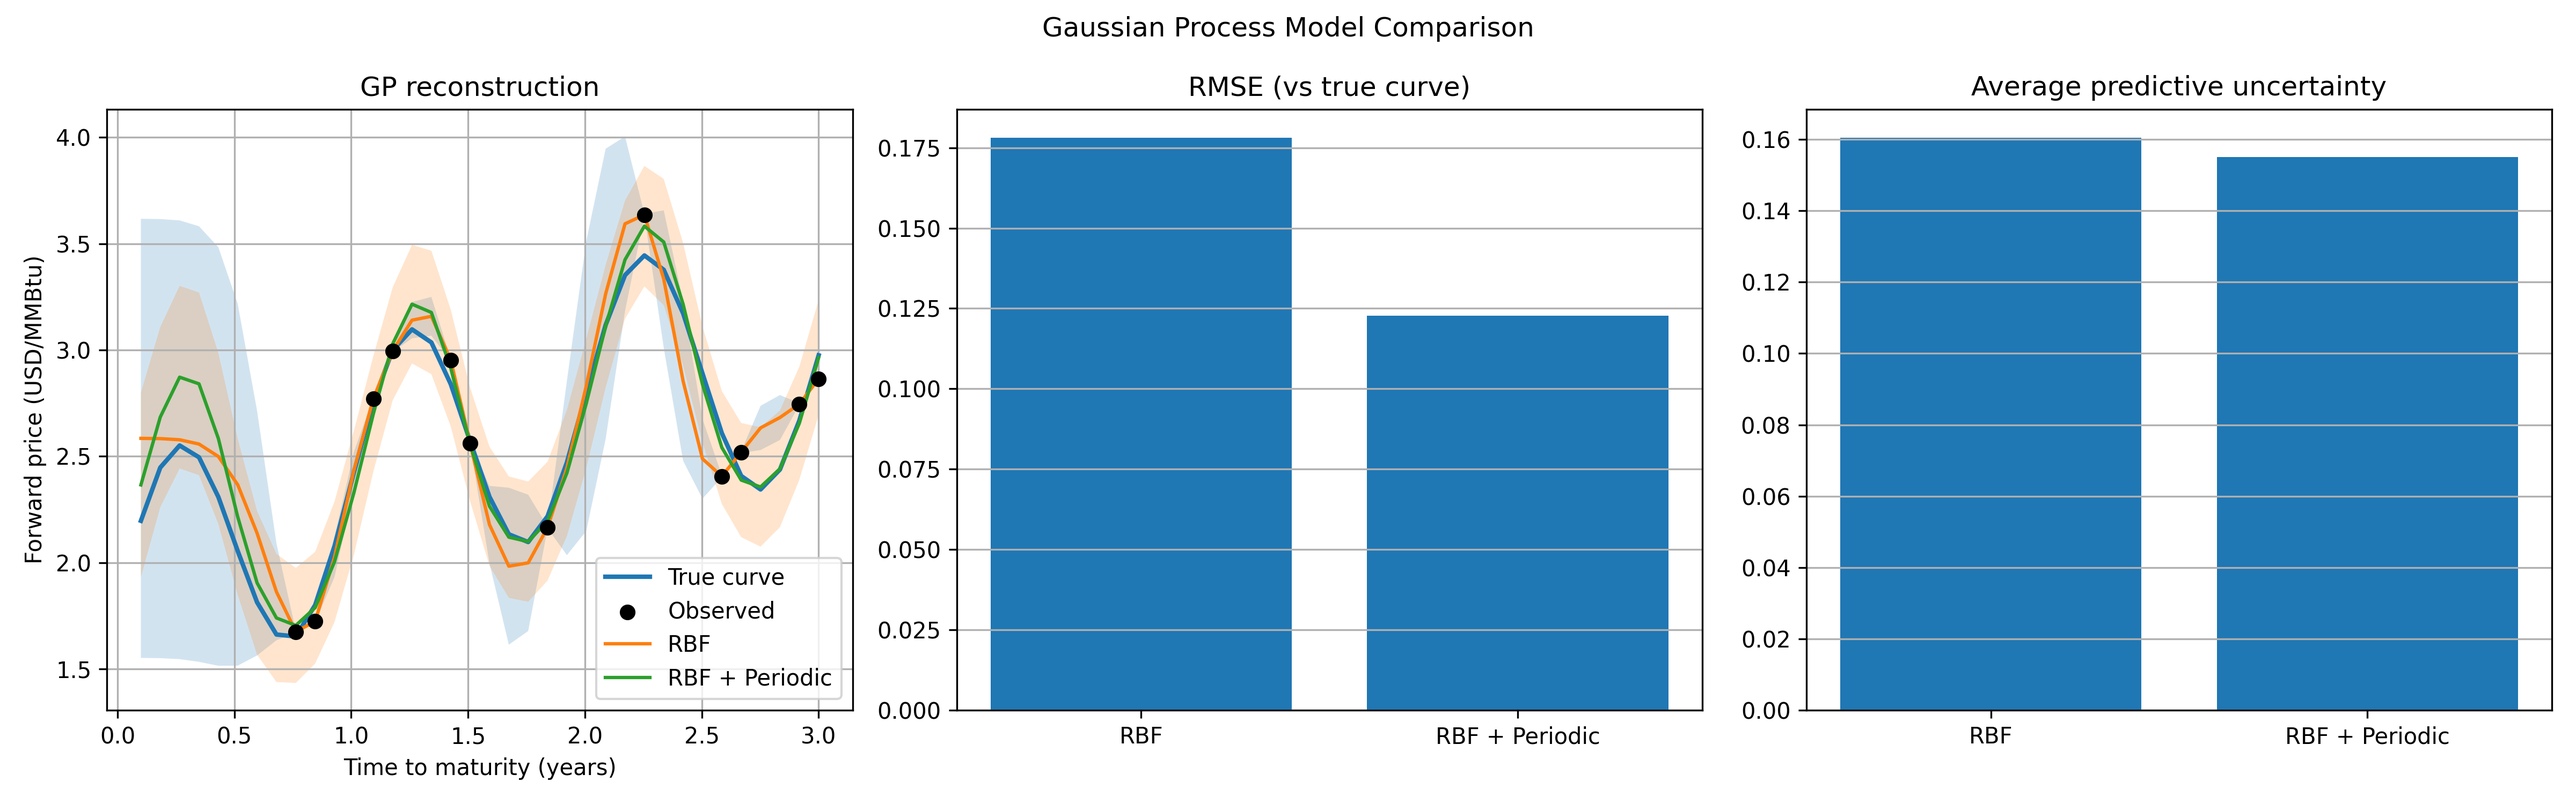
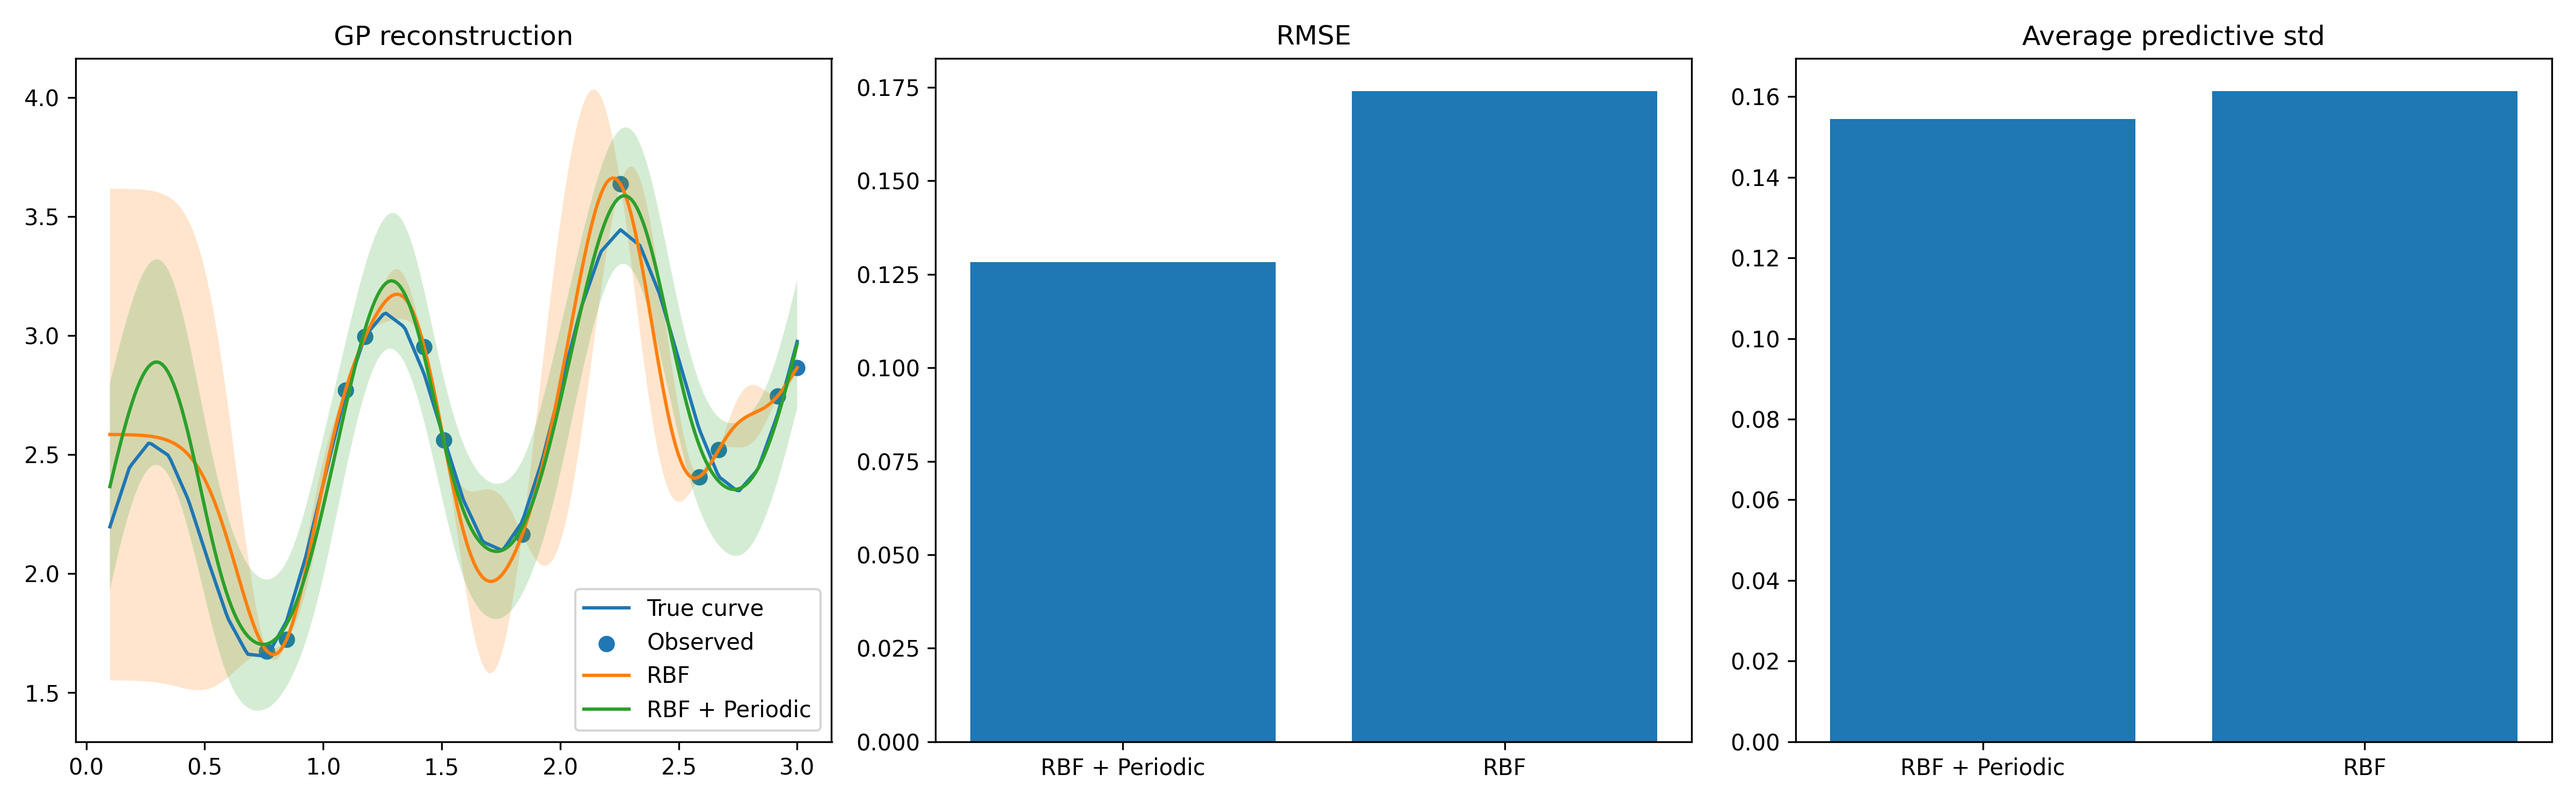
feat(reporting): add GP model comparison and Henry Hub results
- Compare RBF vs RBF + Periodic GP models
- Export quantitative metrics to CSV
- Generate comparison and reconstruction figures

diff --git a/experiments/compare_gp_models.py b/experiments/compare_gp_models.py
@@ -1,9 +1,8 @@
+from __future__ import annotations
+
 import sys
 from pathlib import Path
 
-# ---------------------------------------------------------------------
-# Make project root importable
-# ---------------------------------------------------------------------
 PROJECT_ROOT = Path(__file__).resolve().parents[1]
 sys.path.append(str(PROJECT_ROOT))
 
@@ -12,119 +11,187 @@ import pandas as pd
 import matplotlib.pyplot as plt
 
 from gp_model.gas_forward_gp import GasForwardGP, GasForwardGPConfig
+from gp_model.metrics import regression_metrics, probabilistic_metrics
+from gp_model.io import load_yaml
 
 
 # ---------------------------------------------------------------------
-# Utility metrics
+# Utils
 # ---------------------------------------------------------------------
-def rmse(y_true: np.ndarray, y_pred: np.ndarray) -> float:
-    """Root Mean Squared Error."""
-    return np.sqrt(np.mean((y_true - y_pred) ** 2))
+
+def _avg_std(std: np.ndarray) -> float:
+    std = np.asarray(std, dtype=float)
+    return float(np.mean(std))
+
+
+def _drop_nan(ttm: np.ndarray, y: np.ndarray):
+    mask = np.isfinite(ttm) & np.isfinite(y)
+    return ttm[mask], y[mask]
+
+
+def _pick_column(df: pd.DataFrame, candidates: list[str]) -> str:
+    for c in candidates:
+        if c in df.columns:
+            return c
+    raise KeyError(
+        f"None of columns {candidates} found. Available: {list(df.columns)}"
+    )
 
 
 # ---------------------------------------------------------------------
-# Main comparison logic
+# Main
 # ---------------------------------------------------------------------
-def main():
+
+def main() -> None:
+    cfg_path = PROJECT_ROOT / "config" / "default.yaml"
+    print(f"[INFO] Loading config: {cfg_path}")
+    cfg = load_yaml(cfg_path)
 
     # -----------------------------------------------------------------
-    # Load synthetic dataset
+    # Load data (DIRECTLY via pandas → zero magic)
     # -----------------------------------------------------------------
-    data_path = PROJECT_ROOT / "data" / "synthetic" / "synthetic_forward_curve.csv"
-    df = pd.read_csv(data_path)
+    csv_path = PROJECT_ROOT / cfg["data"]["synthetic_csv"]
+    print(f"[INFO] Loading CSV: {csv_path}")
 
-    ttm = df["ttm_years"].values
-    forward_true = df["forward_true"].values
+    df = pd.read_csv(csv_path)
 
-    mask_obs = df["is_observed"].values.astype(bool)
-    ttm_obs = ttm[mask_obs]
-    forward_obs = df["forward_observed"].values[mask_obs]
+    t_col = _pick_column(df, ["ttm_years", "ttm"])
+    y_obs_col = _pick_column(df, ["forward_observed", "forward_price"])
+    y_true_col = _pick_column(df, ["forward_true", "true_forward"])
 
-    ttm_grid = ttm.reshape(-1, 1)
-    ttm_obs = ttm_obs.reshape(-1, 1)
+    t_obs = df[t_col].values
+    y_obs = df[y_obs_col].values
 
-    # -----------------------------------------------------------------
-    # Define models to compare
-    # -----------------------------------------------------------------
-    models = {
-        "RBF": GasForwardGP(
-            GasForwardGPConfig(kernel_type="rbf")
-        ),
-        "RBF + Periodic": GasForwardGP(
-            GasForwardGPConfig(kernel_type="rbf_periodic")
-        ),
-    }
+    t_obs, y_obs = _drop_nan(t_obs, y_obs)
 
-    results = {}
+    # True curve (interpolated on grid)
+    t_true = df[t_col].values
+    y_true = df[y_true_col].values
+    mask_true = np.isfinite(t_true) & np.isfinite(y_true)
+    t_true = t_true[mask_true]
+    y_true = y_true[mask_true]
 
     # -----------------------------------------------------------------
-    # Fit & predict
+    # Grid
     # -----------------------------------------------------------------
-    for name, model in models.items():
-        print(f"\nFitting model: {name}")
-        model.fit(ttm_obs, forward_obs)
+    grid_cfg = cfg["grid"]
+    t_grid = np.linspace(
+        float(grid_cfg["ttm_min"]),
+        float(grid_cfg["ttm_max"]),
+        int(grid_cfg["n_points"]),
+    )
 
-        mean_pred, std_pred = model.predict(ttm_grid, return_std=True)
-
-        results[name] = {
-            "mean": mean_pred,
-            "std": std_pred,
-            "rmse": rmse(forward_true, mean_pred),
-            "avg_std": np.mean(std_pred),
-        }
-
-        print(f"RMSE = {results[name]['rmse']:.4f}")
-        print(f"Average predictive std = {results[name]['avg_std']:.4f}")
+    y_true_grid = np.interp(t_grid, t_true, y_true)
 
     # -----------------------------------------------------------------
-    # Plot comparison
+    # Models
     # -----------------------------------------------------------------
-    reports_dir = PROJECT_ROOT / "reports" / "synthetic_results"
+    gp_cfg = cfg["gp"]
+
+    cfg_rbf = GasForwardGPConfig(
+        kernel_type="rbf",
+        n_restarts_optimizer=int(gp_cfg["n_restarts_optimizer"]),
+        normalize_y=bool(gp_cfg["normalize_y"]),
+    )
+
+    cfg_seasonal = GasForwardGPConfig(
+        kernel_type="rbf_periodic",
+        n_restarts_optimizer=int(gp_cfg["n_restarts_optimizer"]),
+        normalize_y=bool(gp_cfg["normalize_y"]),
+    )
+
+    print("[INFO] Fitting RBF GP...")
+    model_rbf = GasForwardGP(cfg_rbf)
+    model_rbf.fit(t_obs, y_obs)
+    mean_rbf, std_rbf = model_rbf.predict(t_grid)
+
+    print("[INFO] Fitting RBF + Periodic GP...")
+    model_seas = GasForwardGP(cfg_seasonal)
+    model_seas.fit(t_obs, y_obs)
+    mean_seas, std_seas = model_seas.predict(t_grid)
+
+    # -----------------------------------------------------------------
+    # Metrics
+    # -----------------------------------------------------------------
+    reg_rbf = regression_metrics(y_true_grid, mean_rbf)
+    prob_rbf = probabilistic_metrics(y_true_grid, mean_rbf, std_rbf)
+
+    reg_seas = regression_metrics(y_true_grid, mean_seas)
+    prob_seas = probabilistic_metrics(y_true_grid, mean_seas, std_seas)
+
+    lml_rbf = model_rbf.gp.log_marginal_likelihood(model_rbf.gp.kernel_.theta)
+    lml_seas = model_seas.gp.log_marginal_likelihood(model_seas.gp.kernel_.theta)
+
+    results = pd.DataFrame(
+        [
+            {
+                "model": "RBF",
+                "rmse": reg_rbf.rmse,
+                "mae": reg_rbf.mae,
+                "mape": reg_rbf.mape,
+                "avg_std": _avg_std(std_rbf),
+                "coverage_95": prob_rbf.coverage_95,
+                "nll_gaussian": prob_rbf.nll_gaussian,
+                "log_marginal_likelihood": lml_rbf,
+            },
+            {
+                "model": "RBF + Periodic",
+                "rmse": reg_seas.rmse,
+                "mae": reg_seas.mae,
+                "mape": reg_seas.mape,
+                "avg_std": _avg_std(std_seas),
+                "coverage_95": prob_seas.coverage_95,
+                "nll_gaussian": prob_seas.nll_gaussian,
+                "log_marginal_likelihood": lml_seas,
+            },
+        ]
+    ).sort_values("rmse")
+
+    # -----------------------------------------------------------------
+    # Save outputs
+    # -----------------------------------------------------------------
+    reports_dir = PROJECT_ROOT / cfg["reports"]["synthetic_dir"]
     reports_dir.mkdir(parents=True, exist_ok=True)
 
+    out_csv = reports_dir / "gp_model_comparison.csv"
+    results.to_csv(out_csv, index=False)
+
+    print("\n=== GP model comparison ===")
+    print(results)
+    print(f"[INFO] CSV saved to {out_csv}")
+
+    # -----------------------------------------------------------------
+    # Plot
+    # -----------------------------------------------------------------
     fig, axes = plt.subplots(1, 3, figsize=(16, 5))
 
-    # ---- Curve reconstruction
-    ax = axes[0]
-    ax.plot(ttm, forward_true, label="True curve", lw=2)
-    ax.scatter(ttm_obs, forward_obs, color="black", zorder=3, label="Observed")
+    axes[0].plot(t_grid, y_true_grid, label="True curve")
+    axes[0].scatter(t_obs, y_obs, s=40, label="Observed")
+    axes[0].plot(t_grid, mean_rbf, label="RBF")
+    axes[0].fill_between(
+        t_grid, mean_rbf - 1.96 * std_rbf, mean_rbf + 1.96 * std_rbf, alpha=0.2
+    )
+    axes[0].plot(t_grid, mean_seas, label="RBF + Periodic")
+    axes[0].fill_between(
+        t_grid, mean_seas - 1.96 * std_seas, mean_seas + 1.96 * std_seas, alpha=0.2
+    )
+    axes[0].legend()
+    axes[0].set_title("GP reconstruction")
 
-    for name, res in results.items():
-        ax.plot(ttm, res["mean"], label=name)
-        ax.fill_between(
-            ttm,
-            res["mean"] - 1.96 * res["std"],
-            res["mean"] + 1.96 * res["std"],
-            alpha=0.2,
-        )
+    axes[1].bar(results["model"], results["rmse"])
+    axes[1].set_title("RMSE")
 
-    ax.set_title("GP reconstruction")
-    ax.set_xlabel("Time to maturity (years)")
-    ax.set_ylabel("Forward price (USD/MMBtu)")
-    ax.legend()
-    ax.grid(True)
+    axes[2].bar(results["model"], results["avg_std"])
+    axes[2].set_title("Average predictive std")
 
-    # ---- RMSE comparison
-    ax = axes[1]
-    ax.bar(results.keys(), [res["rmse"] for res in results.values()])
-    ax.set_title("RMSE (vs true curve)")
-    ax.grid(True, axis="y")
-
-    # ---- Uncertainty comparison
-    ax = axes[2]
-    ax.bar(results.keys(), [res["avg_std"] for res in results.values()])
-    ax.set_title("Average predictive uncertainty")
-    ax.grid(True, axis="y")
-
-    plt.suptitle("Gaussian Process Model Comparison")
     plt.tight_layout()
-    plt.savefig(reports_dir / "gp_model_comparison.png", dpi=300)
+
+    out_png = reports_dir / "gp_model_comparison.png"
+    plt.savefig(out_png, dpi=300)
+    print(f"[INFO] Figure saved to {out_png}")
+
     plt.show()
 
-    print("\nComparison figure saved to:")
-    print(reports_dir / "gp_model_comparison.png")
 
-
-# ---------------------------------------------------------------------
 if __name__ == "__main__":
     main()
